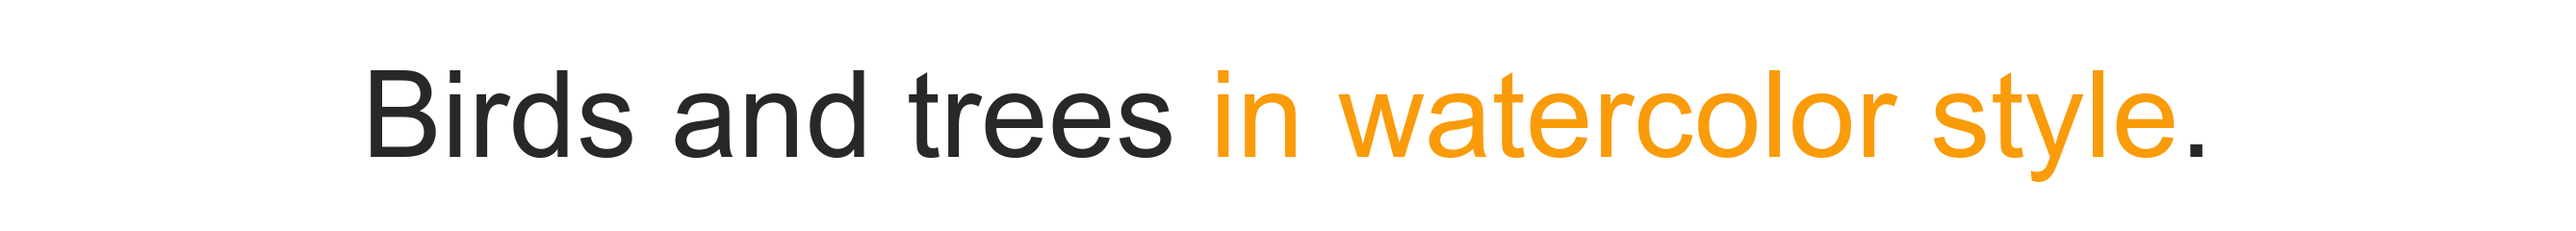
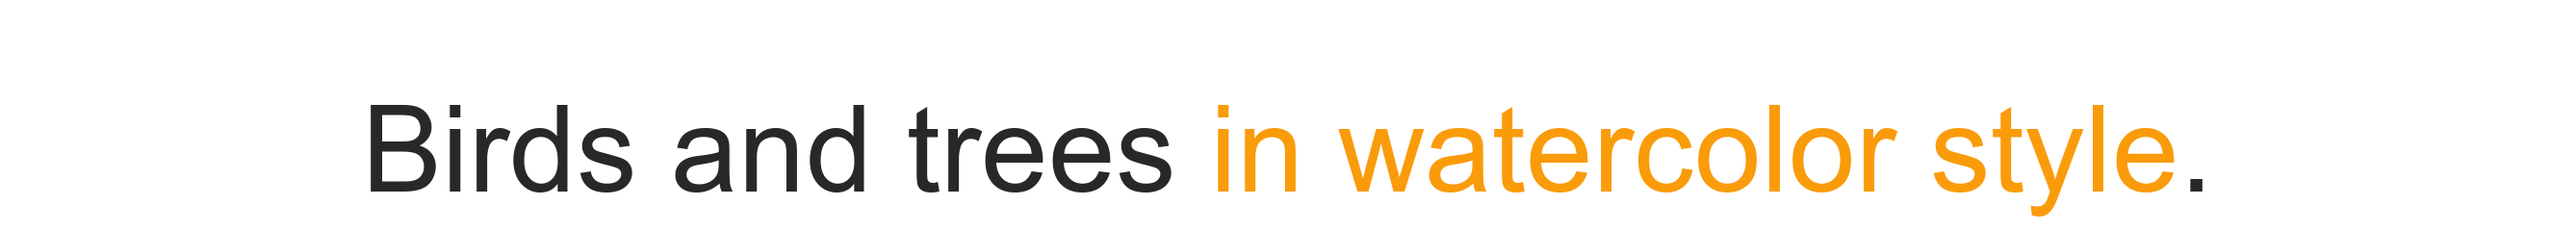
Align watercolor prompt strip position with tiger (bottom-anchored); stretch tiger demo 15% vertically, compress watercolor demo 7% vertically (CSS aspect-ratio)

Changed region(s): [[0.1241, 0.2917, 0.8685, 0.9333], [0.4652, 0.3208, 0.4963, 0.35]]

diff --git a/index.html b/index.html
@@ -101,13 +101,13 @@
             <img src="./assets/prompts/strip_vangogh.png" width="100%" style="padding-top: 2%;">
             <img src="./assets/demo_vangogh_lr.gif"
               alt="Long-video editing demo: source (left) vs. Van Gogh style edited by UELVE (right)" width="100%"
-              style="margin-top: 2rem;">
+              style="margin-top: 2rem; aspect-ratio: 624/269;">
           </div>
           <div class="item item-watercolor">
             <img src="./assets/prompts/strip_watercolor.png" width="100%" style="padding-top: 2%;">
             <video src="./assets/demo_watercolor_lr.mp4"
               aria-label="Long-video editing demo: source (left) vs. watercolor style edited by UELVE (right)"
-              width="100%" autoplay loop muted playsinline></video>
+              width="100%" style="aspect-ratio: 1024/428; object-fit: fill;" autoplay loop muted playsinline></video>
           </div>
         </div>
 
